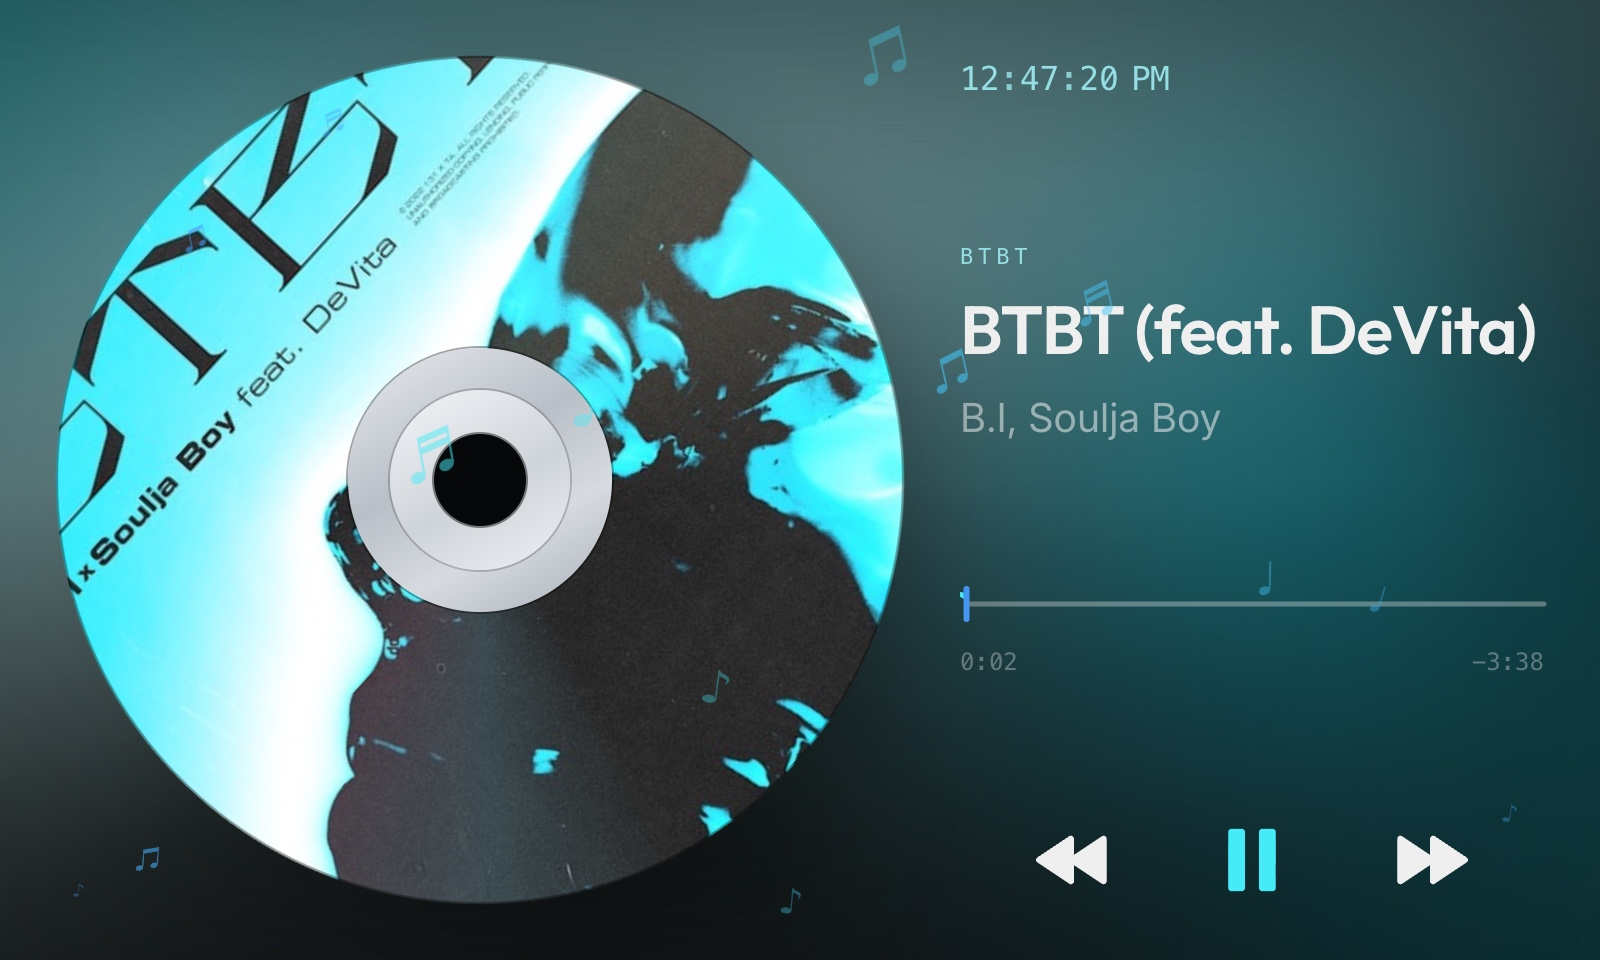
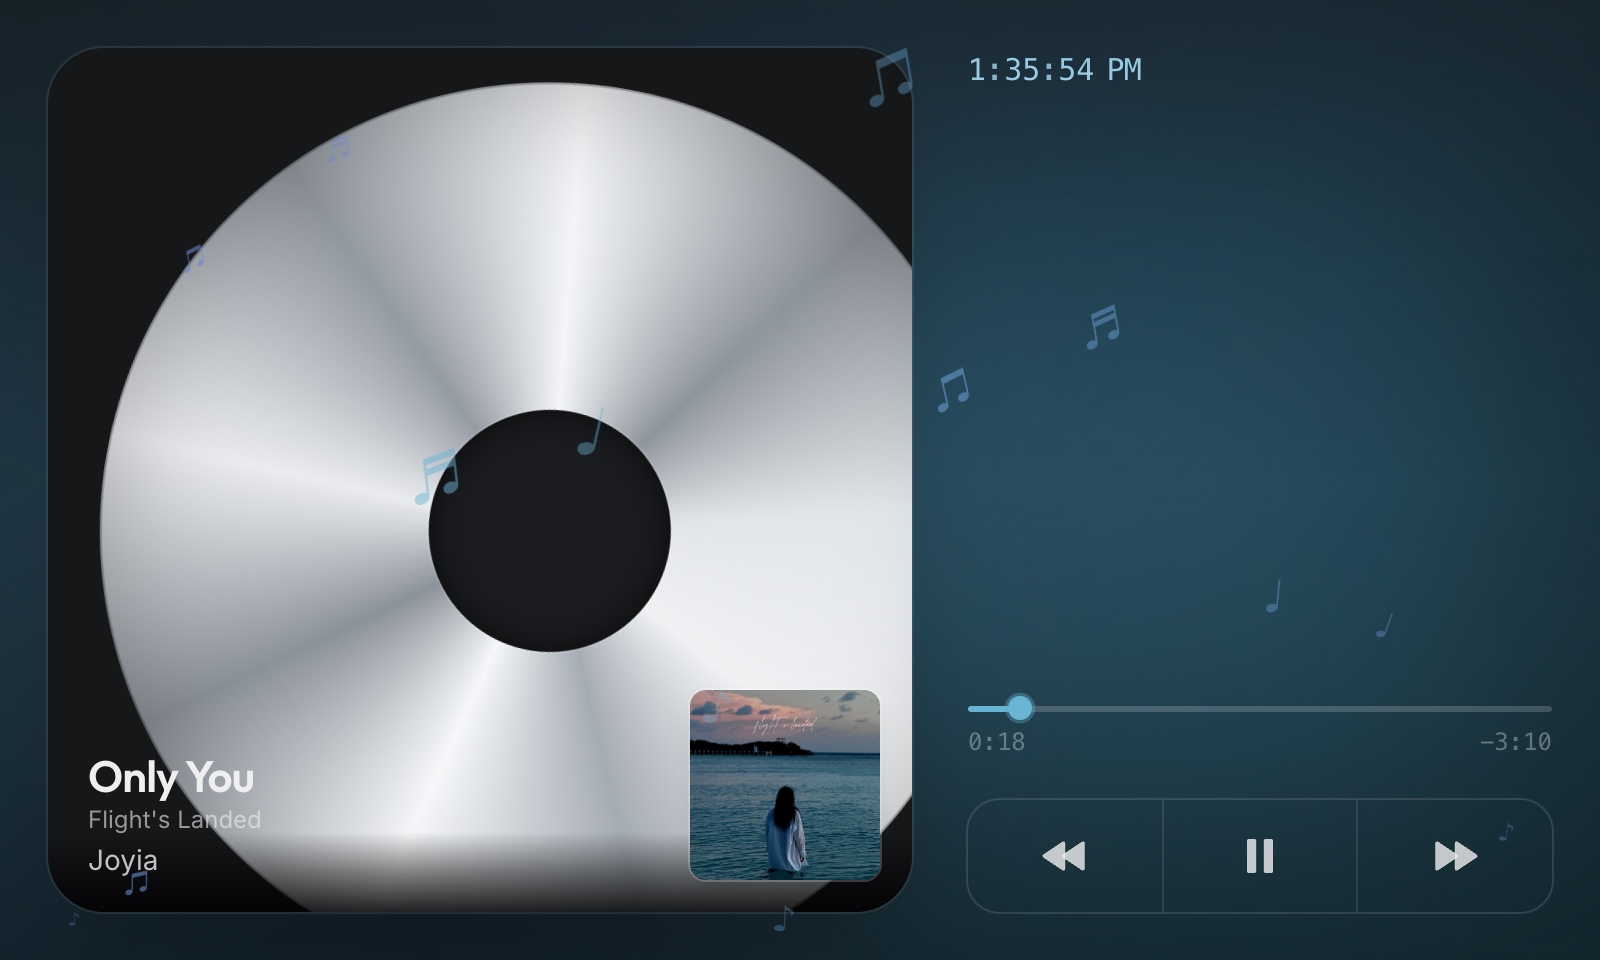
MusicPlayerV1 0.25.0: redraw the CD style after a reference
The disc is plain mirrored chrome now rather than the album art printed across
it, which is what a pressed disc actually looks like from the top. A conic
gradient of nine stops gives it the radial streaks, and because they are fixed to
the disc the rotation reads without needing a separate sheen riding over it, the
way the old one did.

It sits in a dark tray and runs past two of its edges, which is what stops it
looking like a coaster. The track is lettered low across the disc over a scrim
that keeps it legible against the chrome, and the album art becomes a small print
in the corner, the way a case carries it.

The transport is one outlined block split into three cells rather than three
separate glyphs, and the progress bar sits directly above it rather than being
spread away from it.

This is enough of its own composition that it no longer shares the slot Vinyl
uses; it is its own component, like Poster and Cover, and handles both
orientations itself: tray left with the controls stacked bottom right in
landscape, everything stacked when turned.

The screenshot is recaptured, since the old one shows a style that no longer
exists. Same filename, so nothing is orphaned on the published branch.

Claude-Session: https://claude.ai/code/session_012JRXF2mEQKvmmzodFqkLkT

diff --git a/apps/MusicPlayerV1/src/App.tsx b/apps/MusicPlayerV1/src/App.tsx
@@ -334,7 +334,34 @@ export default function App() {
   return (
     <Stage rotate={prefs.rotate}>
     <div className="relative h-full w-full overflow-hidden bg-screen">
-      {prefs.theme === 'widget' ? (
+      {prefs.theme === 'cd' ? (
+        <>
+          <Backdrop url={artUrl} intensity={prefs.backdrop} drift={prefs.drift} />
+          <CdDeck
+            artUrl={artUrl}
+            context={conn === 'open' ? (state?.context?.name ?? track.album ?? 'now playing') : conn}
+            title={track.title ?? 'unknown'}
+            artist={artistName ?? '—'}
+            accent={accentOn}
+            playing={playing}
+            motion={prefs.motion}
+            rotate={prefs.rotate}
+            upright={upright}
+            showTransport={prefs.transport}
+            progress={progress}
+            elapsed={elapsed}
+            duration={duration}
+            remaining={prefs.remaining}
+            wallClock={wallClock}
+            clockPos={prefs.clockPos}
+            clockSize={prefs.clockSize}
+            onToggle={toggle}
+            onPrev={() => client.player.skipPrev({ allowSeeking: true })}
+            onNext={() => client.player.skipNext()}
+            onSeek={ratio => seek(ratio * duration)}
+          />
+        </>
+      ) : prefs.theme === 'widget' ? (
         <>
           <Backdrop url={artUrl} intensity={prefs.backdrop} drift={prefs.drift} />
           <Widget
@@ -408,8 +435,6 @@ export default function App() {
             }`}>
             {prefs.theme === 'vinyl' ? (
               <Turntable artUrl={artUrl} playing={playing} spin={prefs.motion} upright={upright} />
-            ) : prefs.theme === 'cd' ? (
-              <CompactDisc artUrl={artUrl} playing={playing} spin={prefs.motion} upright={upright} />
             ) : (
               <div className={`relative aspect-square ${upright ? 'w-full min-h-0 shrink' : 'h-full shrink-0'}`}>
                 {!edge && <div className="absolute inset-x-4 bottom-0 h-10 rounded-full bg-black/70 blur-2xl" />}
@@ -990,52 +1015,159 @@ function Turntable({
   );
 }
 
-// the art printed across the whole disc, with the clamping hub punched through the middle of it.
-// the hub does not turn with the art: it is concentric, so spinning it would only cost a repaint
-function CompactDisc({
+// a cd sat in a dark tray: a mirrored disc, the track lettered across the bottom of it, and the
+// album art as a small print in the corner the way a case carries it. the disc is plain chrome
+// rather than the artwork, which is what a pressed disc actually looks like from the top
+function CdDeck({
   artUrl,
+  context,
+  title,
+  artist,
+  accent,
   playing,
-  spin,
+  motion,
+  rotate,
   upright,
+  showTransport,
+  progress,
+  elapsed,
+  duration,
+  remaining,
+  wallClock,
+  clockPos,
+  clockSize,
+  onToggle,
+  onPrev,
+  onNext,
+  onSeek,
 }: {
   artUrl: string | null;
+  context: string;
+  title: string;
+  artist: string;
+  accent: Accent | null;
   playing: boolean;
-  spin: boolean;
+  motion: boolean;
+  rotate: Prefs['rotate'];
   upright: boolean;
+  showTransport: boolean;
+  progress: number;
+  elapsed: number;
+  duration: number;
+  remaining: boolean;
+  wallClock: ClockParts | null;
+  clockPos: 'left' | 'center' | 'right';
+  clockSize: number;
+  onToggle: () => void;
+  onPrev: () => void;
+  onNext: () => void;
+  onSeek: (ratio: number) => void;
 }) {
-  return (
-    <div className={`relative aspect-square shrink-0 ${upright ? 'h-[52%] self-center' : 'h-full'}`}>
-      <div className="absolute inset-x-8 bottom-2 h-8 rounded-full bg-black/70 blur-2xl" />
+  const tint = accent?.fill ?? '#efefef';
 
+  const tray = (
+    <div
+      className={`relative shrink-0 overflow-hidden rounded-[28px] bg-[#161719] shadow-2xl ring-1 ring-white/8 ${
+        upright ? 'aspect-square w-full' : 'aspect-square h-full'
+      }`}>
+      {/* the disc runs past the tray on two sides, which is what stops it reading as a coaster */}
       <div
-        className="absolute inset-0 animate-platter overflow-hidden rounded-full shadow-2xl"
-        style={{ animationPlayState: playing && spin ? 'running' : 'paused' }}>
+        className="animate-platter absolute left-[6%] top-[4%] h-[104%] w-[104%] rounded-full"
+        style={{
+          animationPlayState: playing && motion ? 'running' : 'paused',
+          background:
+            'conic-gradient(from 208deg, #eff1f3 0deg, #a6acb4 38deg, #f5f7f9 76deg, #8c929a 116deg, #eaecef 154deg, #959ba3 196deg, #f3f5f7 236deg, #8f959d 278deg, #e3e6e9 318deg, #eff1f3 360deg)',
+          boxShadow: 'inset 0 0 60px rgba(0,0,0,0.28)',
+        }}>
+        <div className="absolute inset-0 rounded-full ring-1 ring-inset ring-black/25" />
+        <div className="absolute left-1/2 top-1/2 aspect-square w-[27%] -translate-x-1/2 -translate-y-1/2 rounded-full bg-[#1b1c1f] shadow-[inset_0_0_18px_rgba(0,0,0,0.7)] ring-1 ring-white/12" />
+      </div>
+
+      {/* the track sits over the disc, low and left, with a scrim so it holds against the chrome */}
+      <div className="absolute inset-x-0 bottom-0 bg-gradient-to-t from-black/85 via-black/45 to-transparent pt-10" />
+      <div className="absolute bottom-4 left-5 right-[26%] min-w-0">
+        <Roll
+          text={title}
+          wrap={!showTransport}
+          lines={2}
+          className={`font-display font-semibold leading-[1.15] tracking-display text-off-white ${
+            upright ? 'text-[1.5rem]' : 'text-[1.375rem]'
+          }`}
+        />
+        <div className="truncate text-hint text-off-white/60">{context}</div>
+        <Roll text={artist} className="text-body text-off-white/80" />
+      </div>
+
+      <div className="absolute bottom-4 right-4 aspect-square w-[22%] overflow-hidden rounded-lg shadow-lg ring-1 ring-white/20">
         {artUrl ? (
           <img src={artUrl} alt="" className="h-full w-full object-cover" />
         ) : (
-          <div className="h-full w-full bg-white/8" />
-        )}
-        {/* the sheen a pressed disc throws; it rides with the art, which is what makes the spin read */}
-        <div
-          className="absolute inset-0 rounded-full mix-blend-screen opacity-35"
-          style={{
-            background:
-              'conic-gradient(from 200deg, rgba(255,255,255,0) 0deg, rgba(120,220,255,0.5) 26deg, rgba(255,180,240,0.42) 52deg, rgba(255,255,255,0) 96deg, rgba(255,255,255,0) 190deg, rgba(180,255,210,0.4) 224deg, rgba(255,235,160,0.36) 250deg, rgba(255,255,255,0) 300deg)',
-          }}
-        />
-        <div className="absolute inset-0 rounded-full ring-1 ring-inset ring-black/40" />
-      </div>
-
-      {/* hub: the silver clamping band, the clear inner ring, then the hole */}
-      <div className="pointer-events-none absolute inset-0 grid place-items-center">
-        <div
-          className="grid aspect-square w-[31%] place-items-center rounded-full ring-1 ring-black/35"
-          style={{ background: 'linear-gradient(150deg, #e8ebef 0%, #b9bfc7 42%, #d7dbe0 68%, #a9b0b9 100%)' }}>
-          <div
-            className="grid aspect-square w-[68%] place-items-center rounded-full ring-1 ring-black/20"
-            style={{ background: 'linear-gradient(150deg, #f3f5f7 0%, #cfd4da 55%, #eef1f4 100%)' }}>
-            <div className="aspect-square w-[52%] rounded-full bg-screen shadow-inner ring-1 ring-black/45" />
+          <div className="grid h-full w-full place-items-center bg-white/8">
+            <Disc className="h-5 w-5 text-off-white/30" />
           </div>
+        )}
+      </div>
+    </div>
+  );
+
+  const bar = (
+    <div className="shrink-0">
+      <Rail rotate={rotate} dot progress={progress} playing={playing && motion} tint={tint} tint2={tint} onSeek={onSeek} />
+      <div className="mt-2 flex justify-between font-mono text-hint tabular-nums text-dim">
+        <span>{clock(elapsed)}</span>
+        <span>{duration ? (remaining ? `-${clock(duration - elapsed)}` : clock(duration)) : '--:--'}</span>
+      </div>
+    </div>
+  );
+
+  // one outlined block split into three, rather than three separate buttons
+  const keys = showTransport ? (
+    <div className="flex shrink-0 divide-x divide-white/10 overflow-hidden rounded-2xl ring-1 ring-white/12">
+      {[
+        { label: 'previous', on: onPrev, icon: <Skip className="h-6 w-6 -scale-x-100" /> },
+        {
+          label: playing ? 'pause' : 'play',
+          on: onToggle,
+          icon: playing ? <Pause className="h-6 w-6" /> : <Play className="h-6 w-6" />,
+        },
+        { label: 'next', on: onNext, icon: <Skip className="h-6 w-6" /> },
+      ].map(k => (
+        <button
+          key={k.label}
+          aria-label={k.label}
+          onClick={k.on}
+          className="grid flex-1 place-items-center py-4 text-near transition-colors duration-200 active:bg-white/12">
+          {k.icon}
+        </button>
+      ))}
+    </div>
+  ) : null;
+
+  const clockRow = wallClock ? (
+    <div className={`flex shrink-0 ${JUSTIFY[clockPos]}`}>
+      <ClockView parts={wallClock} size={(10 * clockSize) / 100} className="text-dim" color={accent?.soft} />
+    </div>
+  ) : null;
+
+  if (upright)
+    return (
+      <div className="relative flex h-full w-full flex-col justify-between gap-5 p-6">
+        {clockRow}
+        {tray}
+        {bar}
+        {keys}
+      </div>
+    );
+
+  return (
+    <div className="absolute inset-0 flex items-stretch gap-7 p-6">
+      {tray}
+      <div className="flex min-w-0 flex-1 flex-col gap-5">
+        {clockRow}
+        {/* the bar belongs directly above the buttons, not spread away from them */}
+        <div className="mt-auto flex flex-col gap-5">
+          {bar}
+          {keys}
         </div>
       </div>
     </div>

diff --git a/README.md b/README.md
@@ -72,11 +72,15 @@ when the music stops.
 
 ![CD style](apps/MusicPlayerV1/screenshots/05-cd.jpg)
 
-The album printed across a compact disc, with the silver clamping hub punched through the middle of
-it and the hole showing the screen behind. The disc turns while the track plays and holds its angle
-when you pause, and a sheen rides around with the art, which is what makes the turn read on a
-picture that is nearly symmetrical. Turned to 90 or 270 the disc is sized by height so it stays
-round.
+A disc lying in a dark tray. It is plain mirrored chrome rather than the artwork, which is what a
+pressed disc looks like from the top, and it runs past two edges of the tray so it reads as a disc
+sitting in one. The track is lettered low across it and the album art is a small print in the
+corner, the way a case carries it. The disc turns while the track plays and holds its angle when you
+pause.
+
+The transport here is one outlined block split into three, with the progress bar directly above it.
+Landscape sets the tray on the left and stacks the bar and buttons at the bottom right; turned, the
+whole thing stacks the way a phone would.
 
 ### Poster
 

diff --git a/apps/MusicPlayerV1/CHANGELOG.md b/apps/MusicPlayerV1/CHANGELOG.md
@@ -1,5 +1,16 @@
 # weather
 
+## 0.25.0
+
+**CD** is redrawn after a reference: the disc sits in a dark tray, plain mirrored chrome rather than
+the artwork, because that is what a pressed disc looks like from the top. It runs past two edges of
+the tray so it reads as a disc lying in one rather than a coaster. The track is lettered low across
+it over a scrim, and the album art is a small print in the corner, the way a case carries it.
+
+Its transport is one outlined block split into three cells rather than three separate glyphs, and
+the progress bar sits directly above it. Landscape puts the tray on the left with the bar and
+buttons stacked at the bottom right; turned, the whole thing stacks the way the reference does.
+
 ## 0.24.0
 
 **On-screen buttons** is a new setting. The presets already do previous, play and next, so the
